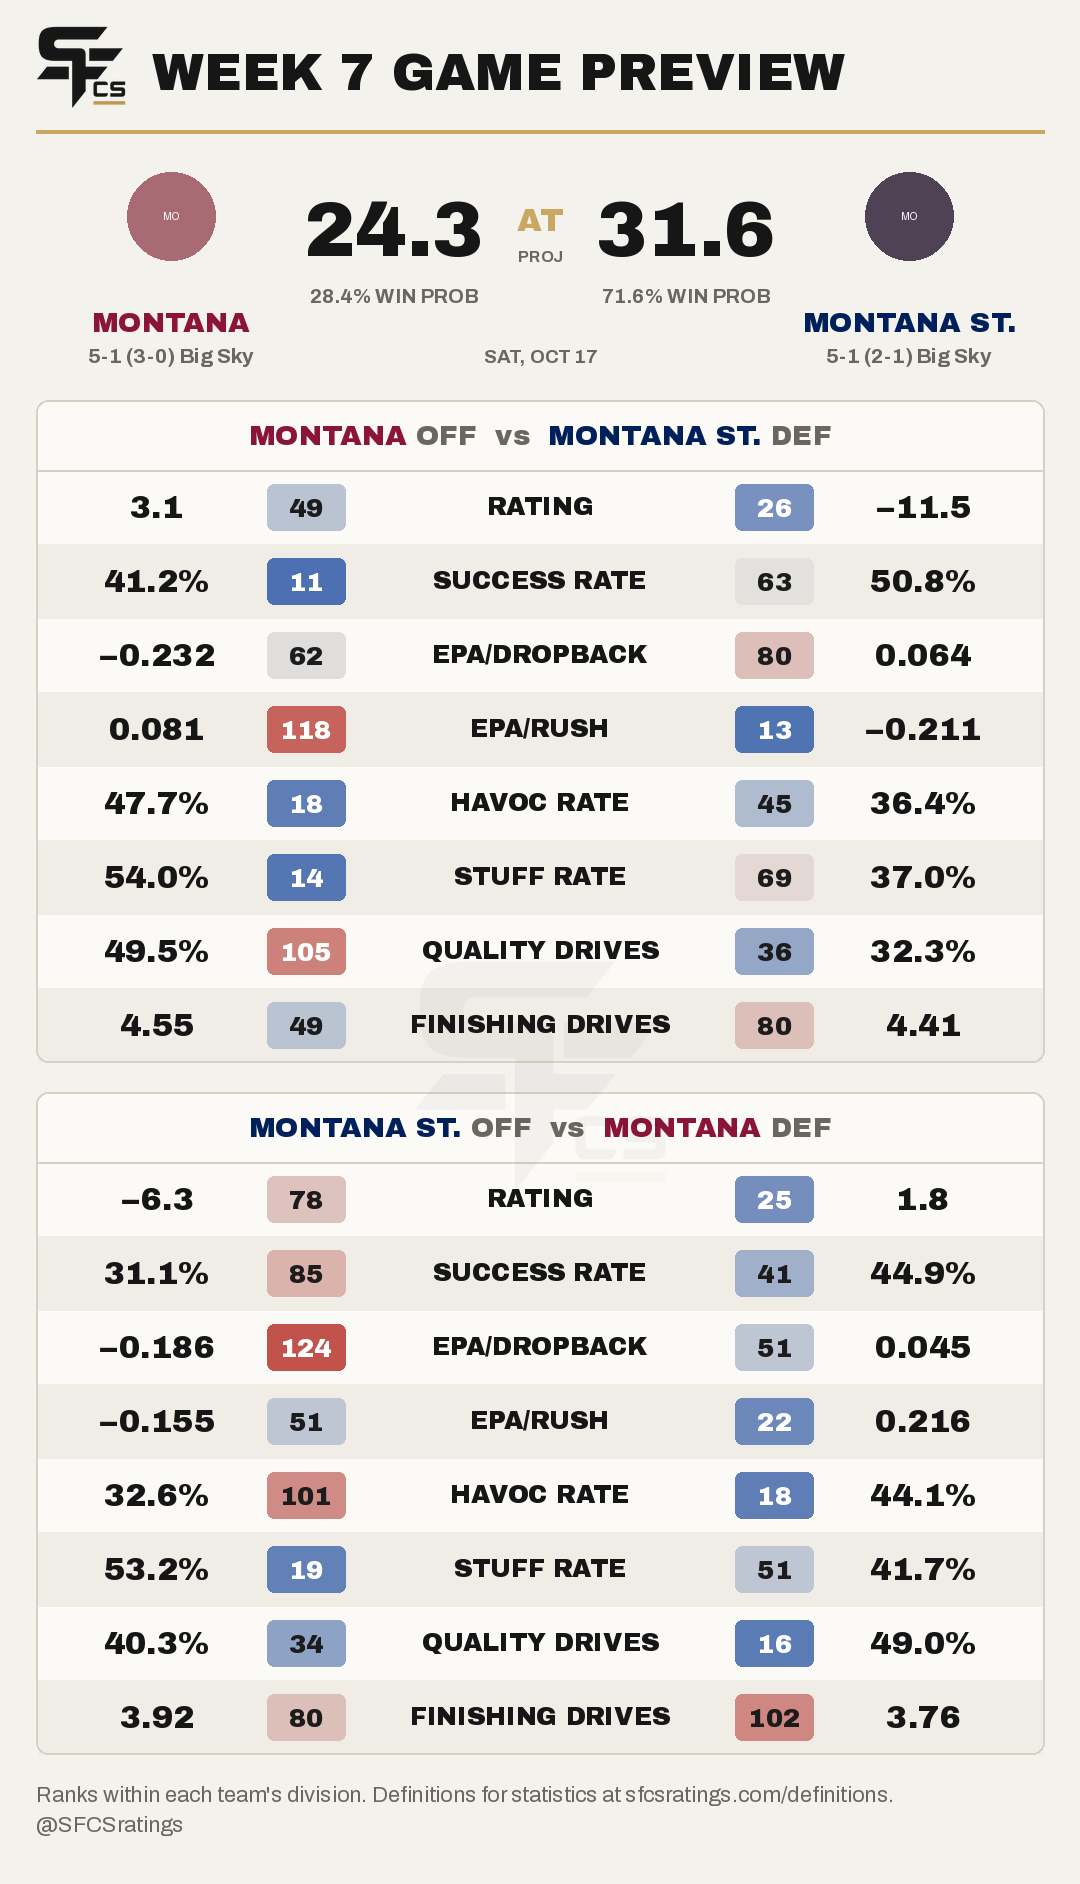
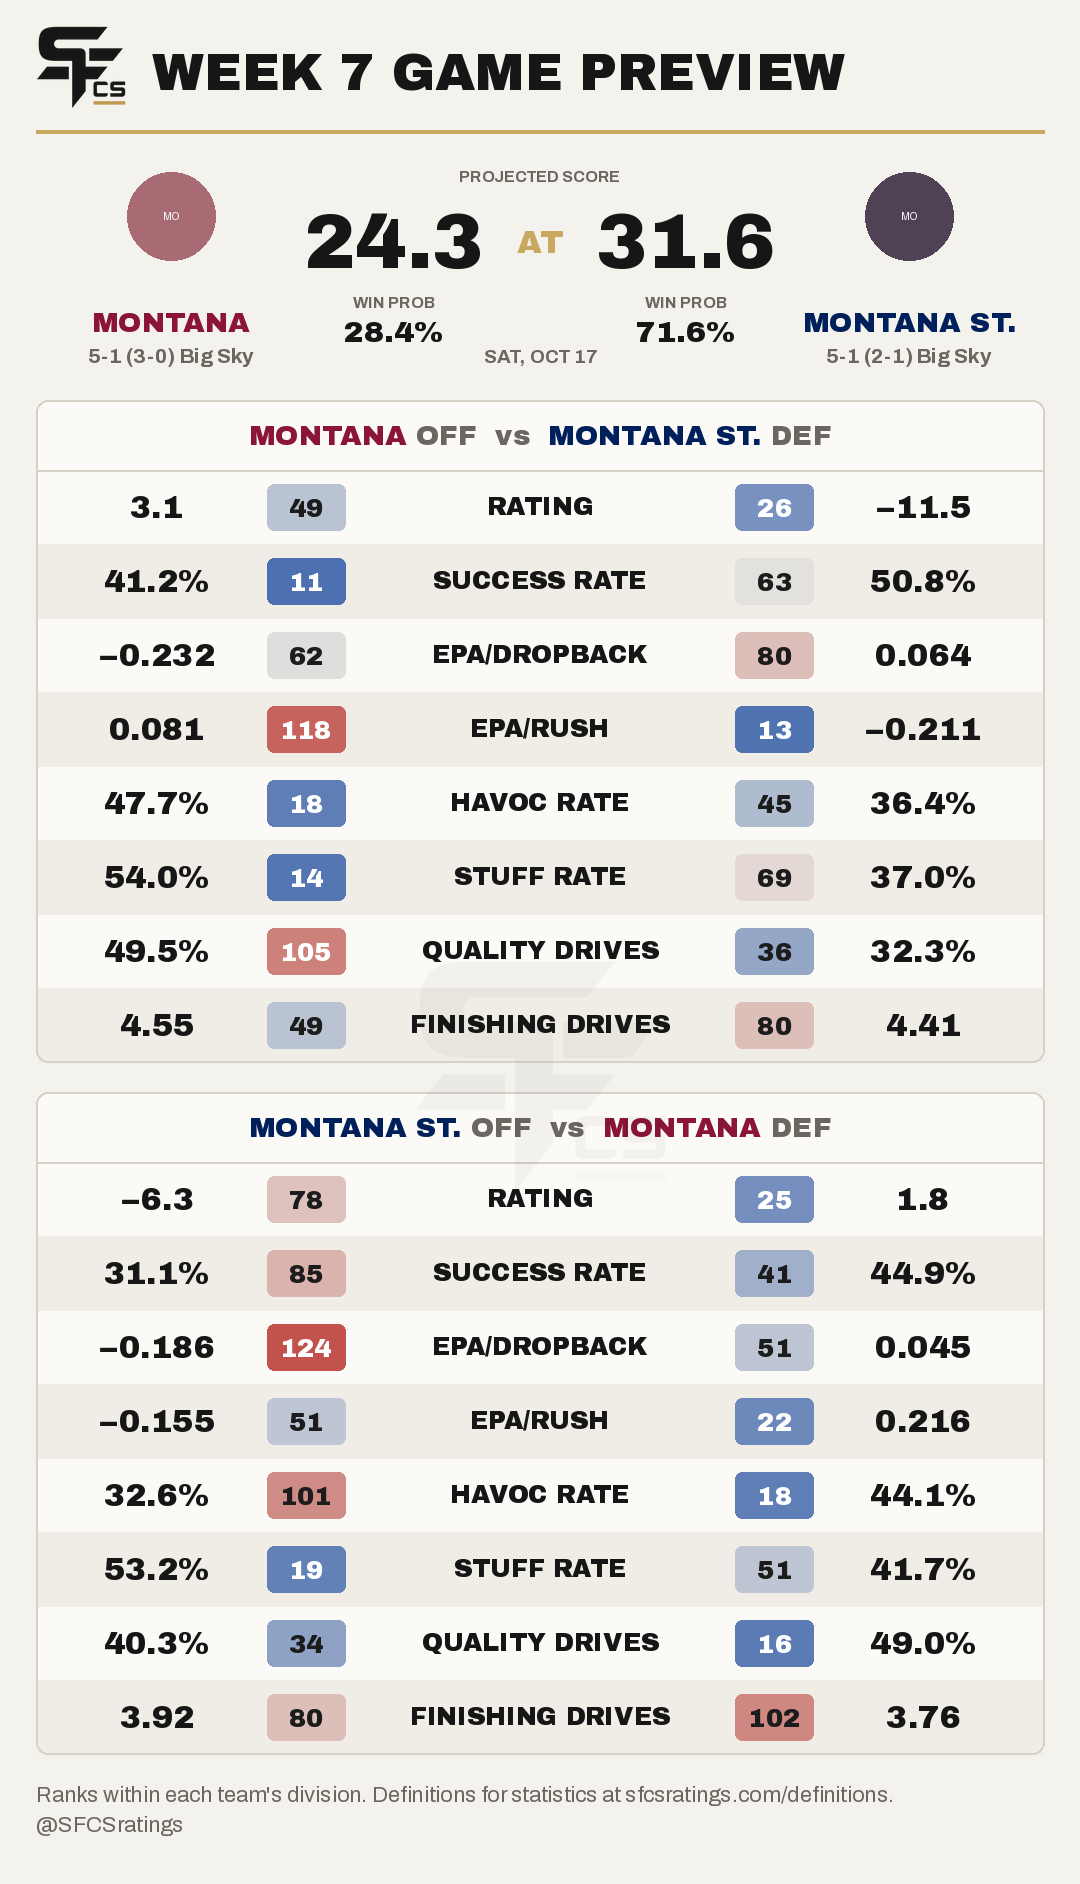
Preview header: Projected Score label, win prob label over value
Claude-Session: https://claude.ai/code/session_01Gd4PPTq31PbPskqw7CwXXC

Changed region(s): [[0.275, 0.0924, 0.5194, 0.1847], [0.55, 0.0924, 0.7333, 0.1847]]

diff --git a/tools/previews.py b/tools/previews.py
@@ -227,11 +227,12 @@ def draw_header(im, d, W, M, y, game, away, home):
                                      info.get("conf_name") or ""] if p) or "–"
         d.text((x + COL / 2, y + 206), line, font=_fit(line, FONTS_BOLD, 21, COL - 10, 13), fill=MUTED, anchor="mm")
         pts = fmt("num1", info.get("proj_pts"))
-        d.text((sx, y + 80), pts, font=_fit(pts, FONTS_HEAVY, 84, 180, 50), fill=INK, anchor="mm")
+        d.text((sx, y + 92), pts, font=_fit(pts, FONTS_HEAVY, 84, 180, 50), fill=INK, anchor="mm")
         wp = fmt("pct", info.get("win_prob"))
-        d.text((sx, y + 146), f"{wp} WIN PROB", font=_fit(f"{wp} WIN PROB", FONTS_BOLD, 20, 180, 13), fill=MUTED, anchor="mm")
-    d.text((cx, y + 70), at, font=_font(FONTS_HEAVY, 32), fill=GOLD, anchor="mm")
-    d.text((cx, y + 106), "PROJ", font=_font(FONTS_BOLD, 16), fill=MUTED, anchor="mm")
+        d.text((sx, y + 152), "WIN PROB", font=_font(FONTS_BOLD, 16), fill=MUTED, anchor="mm")
+        d.text((sx, y + 182), wp, font=_fit(wp, FONTS_HEAVY, 30, 180, 18), fill=INK, anchor="mm")
+    d.text((cx, y + 26), "PROJECTED SCORE", font=_font(FONTS_BOLD, 16), fill=MUTED, anchor="mm")
+    d.text((cx, y + 92), at, font=_font(FONTS_HEAVY, 32), fill=GOLD, anchor="mm")
     when = [game["date_text"]] + (["NEUTRAL SITE"] if game["neutral"] else [])
     for k, w in enumerate(when):
         d.text((cx, y + 206 + 24 * k), w, font=_fit(w, FONTS_BOLD, 19, 200, 12), fill=MUTED, anchor="mm")

diff --git a/docs/PREVIEWS.md b/docs/PREVIEWS.md
@@ -8,8 +8,9 @@
 
 - **Header** (the same layout as the box score):
   - each team's logo, its name in the team's `ink` color, and its record line ("5-1 (3-0) Big Sky");
-  - **projected points** in large type beside each logo, with **win probability** underneath in smaller type;
-  - "AT" (or "VS" at neutral sites) with "PROJ" in the center, and the game date (plus "NEUTRAL SITE" when it applies).
+  - **projected points** in large type beside each logo, under a centered "PROJECTED SCORE" label;
+  - "WIN PROB" under each score, with the percentage below it;
+  - "AT" (or "VS" at neutral sites) between the scores, and the game date (plus "NEUTRAL SITE" when it applies) in the center.
 - **Two panels:** "<away> OFF vs <home> DEF" and "<home> OFF vs <away> DEF", with team names in their ink colors. Each row shows the offense's value and rank, the stat name, then the defense's rank and value.
 - **Stats:** Rating (side-of-ball rating), Success Rate, EPA/Dropback, EPA/Rush, Havoc Rate, Stuff Rate, Quality Drives, Finishing Drives.
 - **Rank badges:** shaded with the user's rule, applied exactly as written:
